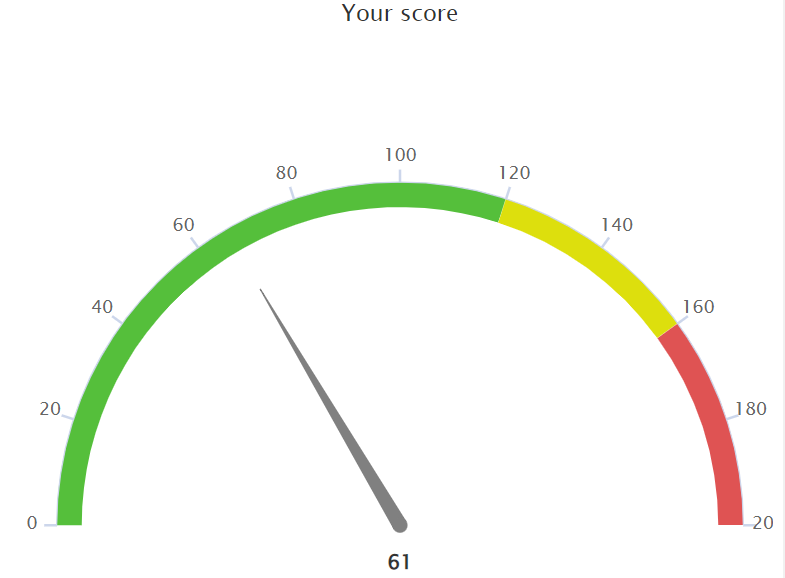
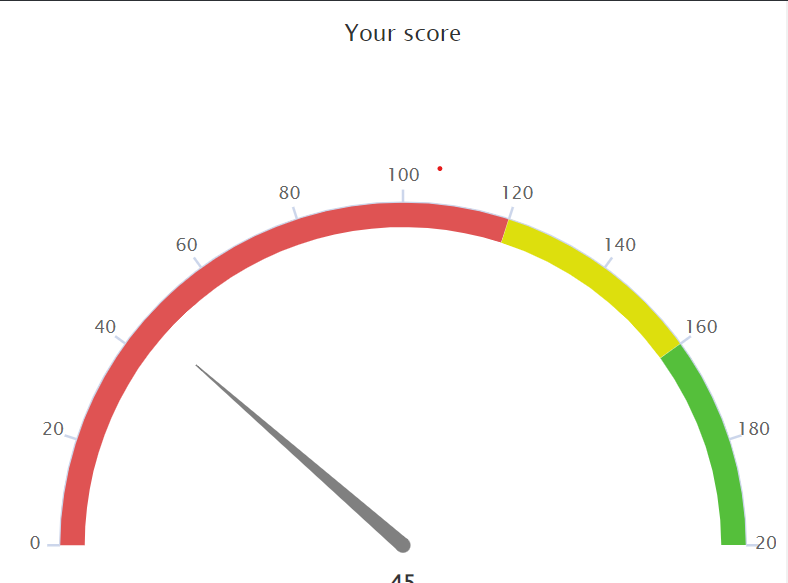
Updated option 3

diff --git a/option 3/chart.js b/option 3/chart.js
@@ -26,7 +26,7 @@ Highcharts.chart('container', {
         min: 0,
         max: 200,
         tickPixelInterval: 72,
-        tickPosition: null,
+        tickPosition: 'null',
         minorTickInterval: 'inside',
         labels: {
             distance: 20,
@@ -34,7 +34,8 @@ Highcharts.chart('container', {
                 fontSize: '14px'
             }
         },
-        plotBands: [{
+        plotBands: [
+      /*   {
             from: 0,
             to: 120,
             color: '#55BF3B', // green
@@ -49,7 +50,24 @@ Highcharts.chart('container', {
             to: 200,
             color: '#DF5353', // red
             thickness: 20
-        }]
+        } */
+          {
+            from: 0,
+            to: 120,
+            color: '#DF5353', // green
+            thickness: 20
+        }, {
+            from: 120,
+            to: 160,
+            color: '#DDDF0D', // yellow
+            thickness: 20
+        }, {
+            from: 160,
+            to: 200,
+            color: '#55BF3B', // red
+            thickness: 20
+        }
+        ]
     },
 
     series: [{
@@ -97,8 +115,6 @@ setInterval(() => {
         if (newVal < 0 || newVal > 200) {
             newVal = point.y - inc;
         }
-
         point.update(newVal);
     }
-
 }, 3000);
